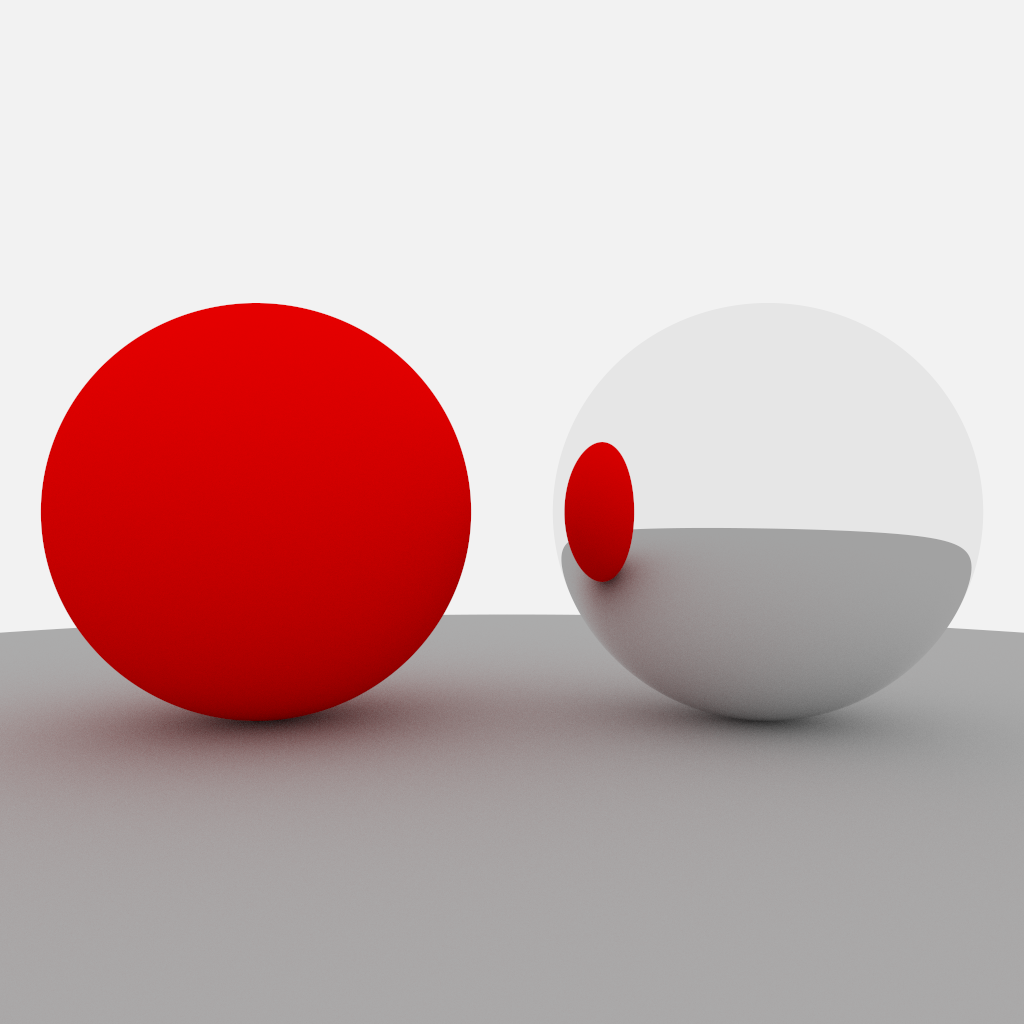
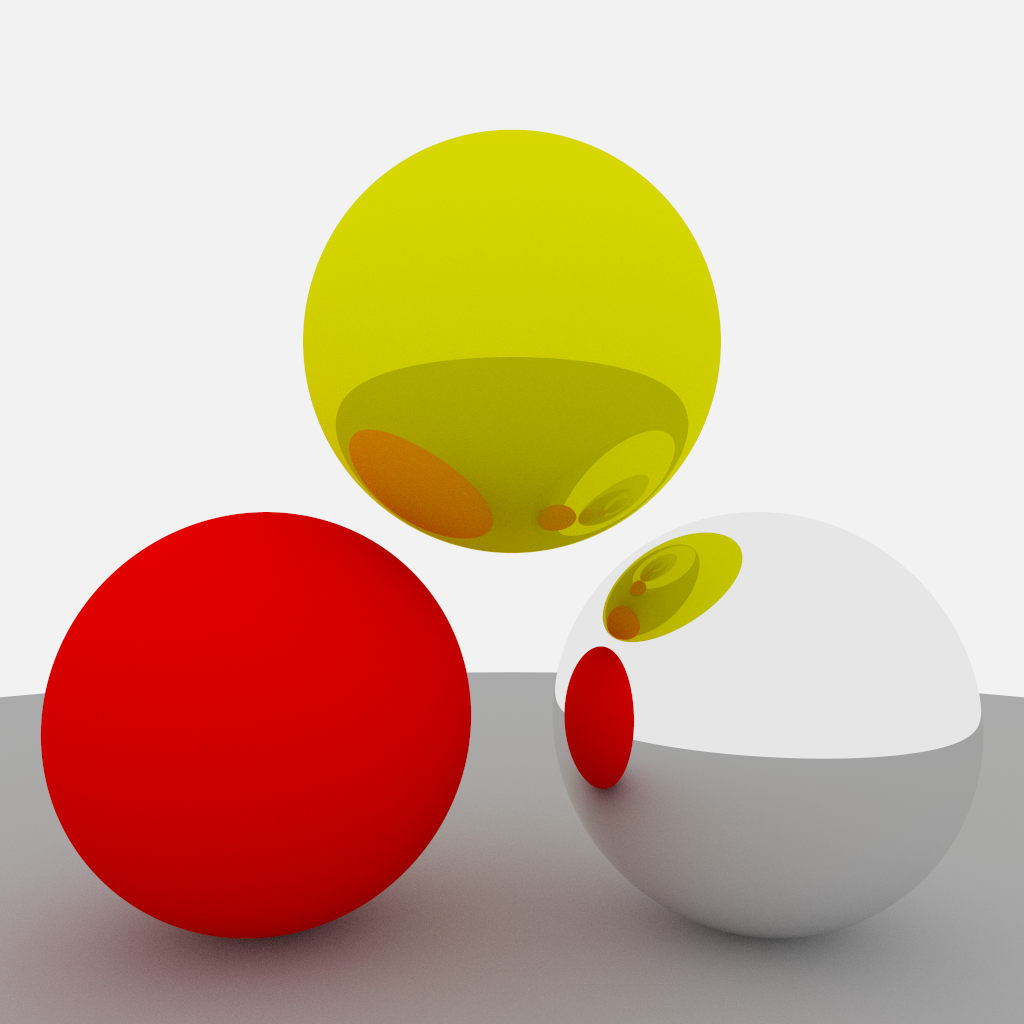
more spheres

diff --git a/src/main.rs b/src/main.rs
@@ -228,6 +228,11 @@ fn get_color(ray: Ray, depth: u32) -> Vec3 {
         radius: 1.0
     };
 
+    let sphere4 = Geometry::Sphere {
+        center: Vec3(0.0, 1.8, -5.0),
+        radius: 1.0
+    };
+
     let _plane = Geometry::Plane {
         y: -1.0,
     };
@@ -247,12 +252,17 @@ fn get_color(ray: Ray, depth: u32) -> Vec3 {
         metalness: 0.0,
     };
 
+    let sphere4_material = Material {
+        albedo: Vec3(0.8, 0.8, 0.0),
+        metalness: 0.5,
+    };
+
     let _plane_material = Material {
         albedo: Vec3(0.9, 0.9, 0.9),
         metalness: 1.0,
     };
     
-    let world = [(sphere, sphere_material), (sphere2, sphere2_material), (sphere3, sphere3_material)];
+    let world = [(sphere, sphere_material), (sphere2, sphere2_material), (sphere3, sphere3_material), (sphere4, sphere4_material)];
 
     let mut max_t = f64::INFINITY;
     let mut result = None;
@@ -288,7 +298,7 @@ fn main() {
     let viewport_height = 1.0;
     let focal_length = 1.0;
 
-    let camera_location = Vec3(0.0, 0.0, 0.0);
+    let camera_location = Vec3(0.0, 1.0, 0.0);
     let camera_direction = Vec3(0.0, 0.0, -1.0);
     let camera_up = Vec3(0.0, 1.0, 0.0);
     let camera_right = camera_direction.cross(camera_up);
